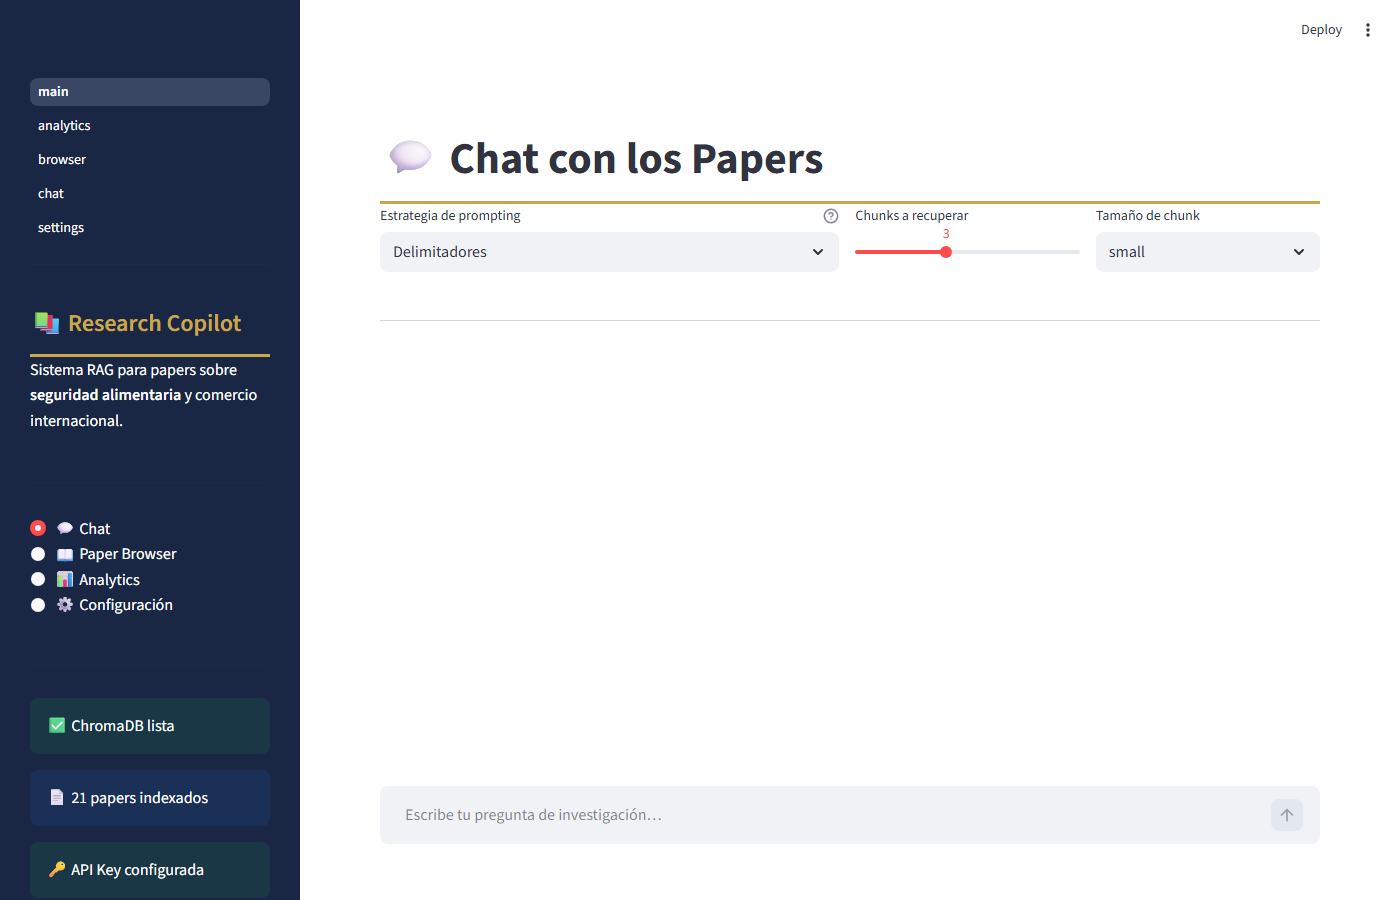
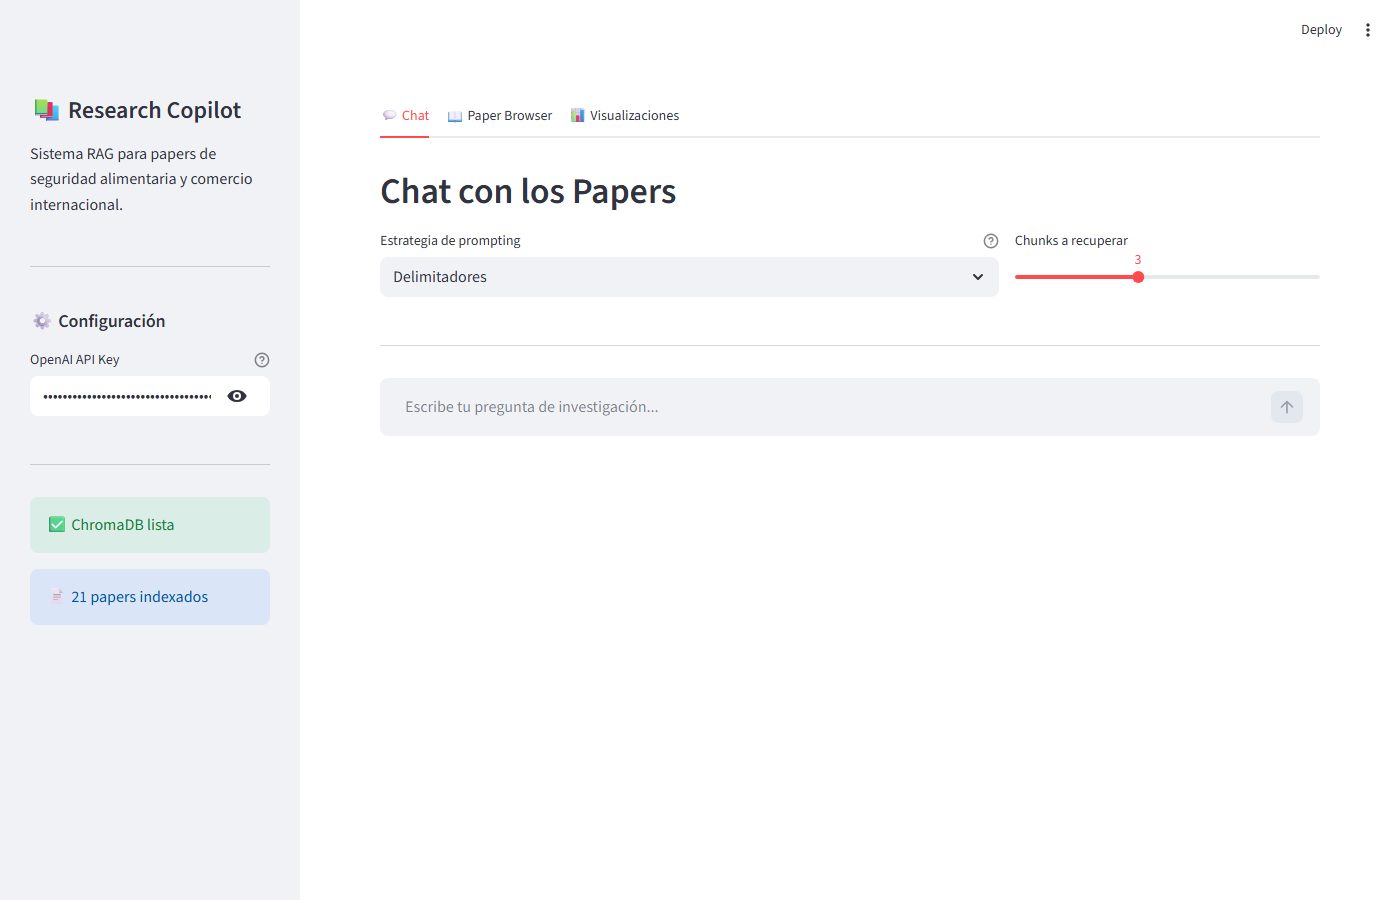
Update screenshots with current UI and fix screenshot script
- Retake 01_chat.png, 02_browser.png, 03_analytics.png with new interface
- Fix _take_screenshots.py to navigate tabs (button[role='tab']) instead of sidebar labels
- Keep 04_settings.png unchanged

diff --git a/_take_screenshots.py b/_take_screenshots.py
@@ -1,5 +1,5 @@
 # -*- coding: utf-8 -*-
-"""Take screenshots of all 4 app pages using Playwright."""
+"""Take screenshots of all app tabs using Playwright."""
 import asyncio, os, sys
 sys.stdout.reconfigure(encoding="utf-8")
 
@@ -9,13 +9,26 @@ BASE_URL  = "http://localhost:8502"
 SHOTS_DIR = r"C:\CELESTE\QLAB\trabajo\demo\screenshots"
 os.makedirs(SHOTS_DIR, exist_ok=True)
 
-# (sidebar label, click text subset, output filename)
-PAGES = [
-    ("Chat",          "Chat",          "01_chat.png"),
-    ("Paper Browser", "Paper Browser", "02_browser.png"),
-    ("Analytics",     "Analytics",     "03_analytics.png"),
-    ("Configuracion", "Configuraci",   "04_settings.png"),
+# (tab button text substring, output filename)
+TABS = [
+    ("Chat",           "01_chat.png"),
+    ("Paper Browser",  "02_browser.png"),
+    ("Visualizaciones","03_analytics.png"),
 ]
+
+async def click_tab(page, text: str):
+    """Click a Streamlit tab by partial text match."""
+    try:
+        await page.locator(f"button[role='tab']:has-text('{text}')").first.click(timeout=8000)
+        return True
+    except Exception:
+        pass
+    try:
+        await page.get_by_role("tab", name=text, exact=False).first.click(timeout=5000)
+        return True
+    except Exception:
+        pass
+    return False
 
 async def main():
     async with async_playwright() as p:
@@ -24,29 +37,17 @@ async def main():
 
         print("Loading app...", flush=True)
         await page.goto(BASE_URL, wait_until="networkidle", timeout=30000)
-        await page.wait_for_timeout(4000)
+        await page.wait_for_timeout(5000)
 
-        # screenshot initial state (Chat page)
-        out0 = os.path.join(SHOTS_DIR, "01_chat.png")
-        await page.screenshot(path=out0, full_page=True)
-        print(f"Saved: {out0}", flush=True)
-
-        for name, click_text, filename in PAGES[1:]:
-            print(f"Navigating to {name}...", flush=True)
-            try:
-                # find and click radio option containing the text
-                await page.locator(f"label:has-text('{click_text}')").first.click(timeout=8000)
-            except Exception as e:
-                print(f"  click error: {e}", flush=True)
-                try:
-                    await page.get_by_text(click_text, exact=False).first.click(timeout=5000)
-                except Exception as e2:
-                    print(f"  fallback error: {e2}", flush=True)
-
-            await page.wait_for_timeout(4000)
+        for tab_text, filename in TABS:
+            print(f"Navigating to tab '{tab_text}'...", flush=True)
+            ok = await click_tab(page, tab_text)
+            if not ok:
+                print(f"  Could not click tab '{tab_text}', capturing current state.", flush=True)
+            await page.wait_for_timeout(3000)
             out = os.path.join(SHOTS_DIR, filename)
             await page.screenshot(path=out, full_page=True)
-            print(f"Saved: {out}", flush=True)
+            print(f"  Saved: {out}", flush=True)
 
         await browser.close()
     print("All screenshots done.", flush=True)
